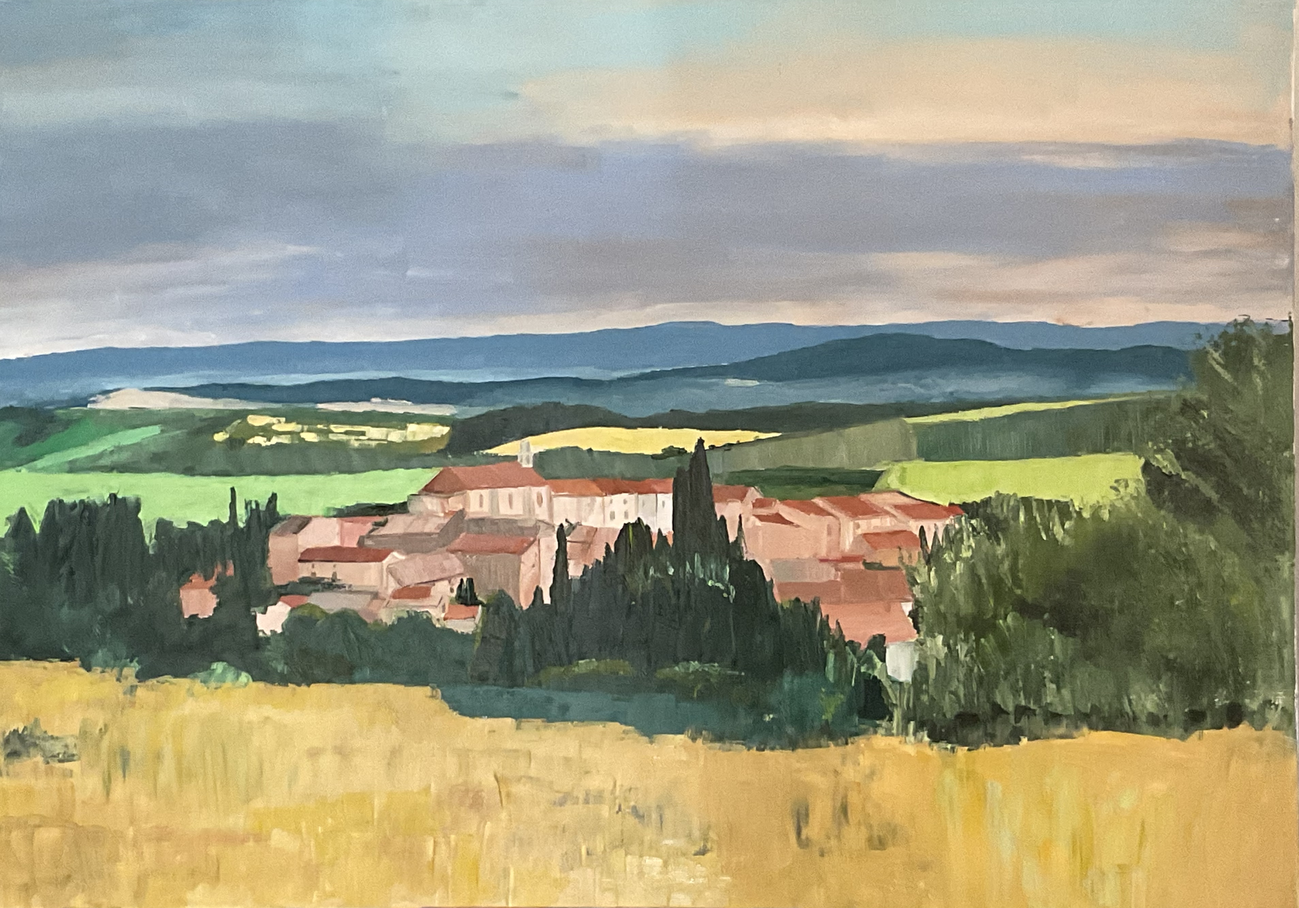
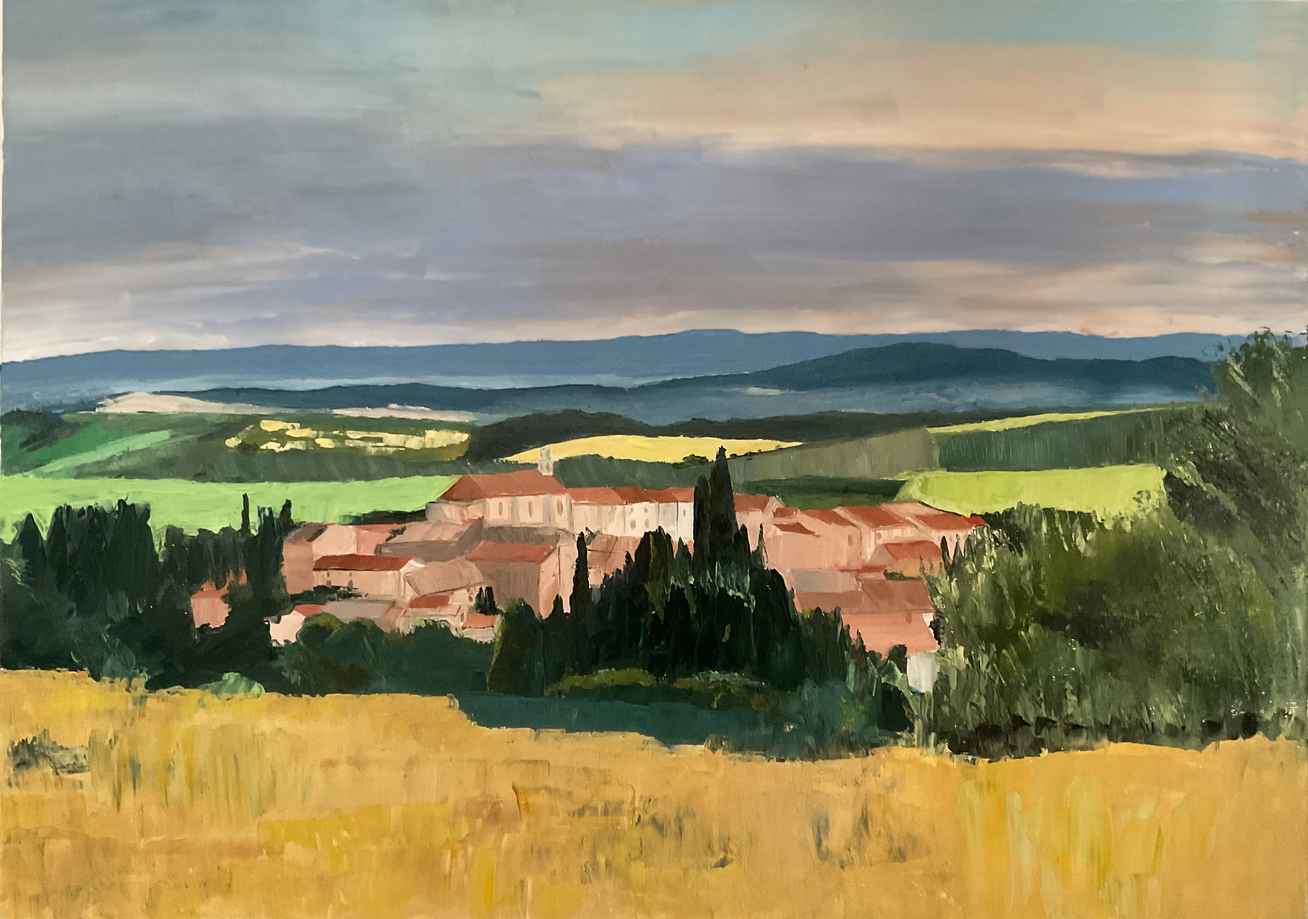
Ajout Exposition Gourdon. Le pastel La Brague. Refresh Donazac

diff --git a/htdocs/public/expositions.html b/htdocs/public/expositions.html
@@ -100,21 +100,27 @@ body, html {
   <div>
   <ol>
      <i><h5 style="background-color:powderblue;">2023</h5>
-        <p>Antibes (06, France) - Spectacles Femin'Arte - FEMIN'EXPO M&eacute;diath&egrave;que Albert Camus - 28 F&eacute;vrier au samedi 11 Mars <br> 
-		Vernissage le 4 Mars 16h [Expo de groupe sur le th&egrave;me "Dansons, sinon nous sommes perdus! (Pina Bausch)"]</p>
+		<ul><li><b>Gourdon (06, France)</b> - Salle de la Mairie - du 4 au 10 Ao&ucirc;t
+		<br><a href="images/web/Affichette_Expo-Aout23_small.jpg" alt="Affiche" />
+          <img src="images/web/Affichette_Expo-Aout23_small.jpg" width="80" height="100"/>Affiche</a>
+		  </br>	
+		  </li>
+		<li><b>Antibes (06, France)</b> - Spectacles Femin'Arte - FEMIN'EXPO M&eacute;diath&egrave;que Albert Camus - 28 F&eacute;vrier au samedi 11 Mars <br> 
+		Vernissage le 4 Mars 16h [Expo de groupe sur le th&egrave;me "Dansons, sinon nous sommes perdus! (Pina Bausch)"]
 		<br><a href="images/Huile/20230216_LesDanseuses_Huile_small.jpg" alt="Les danseuses" />
           <img src="images/web/20230216_LesDanseuses_Huile_mini.jpg" width="100" height="80"/>Les danseuses</a>
-		  </br>
-	  
+		  </br> 
+		</li>
+		</ul>
     </i>
     <i><h5 style="background-color:powderblue;">2022</h5>
-        <p>Antibes (06, France) - "Fa&icirc;tes de la peinture" (association les amis du mus&eacute;e Picasso)</p> 
+        <p><b>Antibes (06, France)</b> - "Fa&icirc;tes de la peinture" (association les amis du mus&eacute;e Picasso)</p> 
     </i>
     <i><h5 style="background-color:powderblue;">2021</h5>
-        <p>Antibes (06, France) - "Fa&icirc;tes de la peinture" (association les amis du mus&eacute;e Picasso)</p> 
+        <p><b>Antibes (06, France)</b> - "Fa&icirc;tes de la peinture" (association les amis du mus&eacute;e Picasso)</p> 
         <p style="color:green;">2&egrave;me prix, cat&eacute;gorie Aquarelle/pastel </p>
         <a href="images/Pastels/20210917_Michel en Polynesie_small.jpg">
-          <img src="images/web/20211008_2emePrix_Pastel.jpg" width="100"/>Torride
+          <img src="images/Pastels/20210917_Michel en Polynesie_small.jpg" width="100"/>Torride
 	    </a>
     </i>
   </ol>
